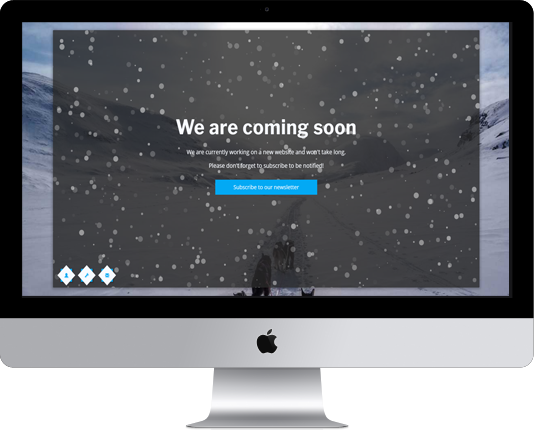
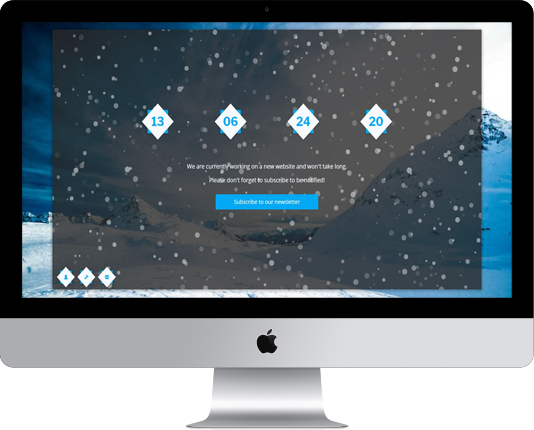
added photo

diff --git a/mainpage.html b/mainpage.html
@@ -32,21 +32,39 @@
 </head>
 
 <body>
-	<div class="wrapper">
+
 		<header class="header">
 
 			<div class="header__container"></div> 
-				<div class="header__content">
-					<div class="container">
-						<h1>Softly 1.0 </h1>                
-                   		<h2>Coming Soon Template</h2>
-                    	<a class="btn btn-main btn-mainpage" id="view-demo" href="#">View demo</a>
-                    	<a class="btn btn-main btn-mainpage" href="#" target="_blank">Want to buy</a>
+                <div class="header__content">              
+                    <div class="container">
+                    <h1>Softly 1.0 </h1>                
+                        <h2>Coming Soon Template</h2>
+                        <a class="btn btn-main btn-mainpage" id="view-demo" href="#">View demo</a>
+                        <a class="btn btn-main btn-mainpage" href="#" target="_blank">Want to buy</a>
 					</div>
+
 				</div>
 			</div>
 		
 		</header>
+
+    <div class=" wrapper">
+
+
+      
+
+        <header id="home" class="header ">
+
+            <div class="page-header-00">
+              <div class="container all-light">
+
+                </div>
+              </div>
+            </div>
+
+        </header>
+
 
 		<div id="content" class="container">
 
@@ -59,7 +77,7 @@
                     <div class="row">
                         <div class="col-md-6">
                             <a href="index.html" class="thumbnail">
-                                <img src="images/withcounter/index.jpg" alt="Background Image">
+                                <img src="images/withcounter/index-image.png" alt="Background Image">
                                 <div class="caption text-center">
                                     <h4>Image Background</h4>
                                 </div>  
@@ -68,7 +86,7 @@
 
                         <div class="col-md-6">
                             <a href="index-video.html" class="thumbnail">
-                                <img src="images/withcounter/index-video.jpg" alt="Video Background">
+                                <img src="images/withcounter/index-video.png" alt="Video Background">
                                 <div class="caption text-center">
                                     <h4>Video Background</h4>
                                 </div>  
@@ -77,7 +95,7 @@
 
                         <div class="col-md-6">
                             <a href="index-slideshow.html" class="thumbnail">
-                                <img src="images/withcounter/index-slideshow.jpg" alt="Slideshow Background">
+                                <img src="images/withcounter/index-slideshow.png" alt="Slideshow Background">
                                 <div class="caption text-center">
                                     <h4>Slideshow Background</h4>
                                 </div>  
@@ -86,18 +104,18 @@
 
                         <div class="col-md-6">
                             <a href="index-kenburns.html" class="thumbnail">
-                                <img src="images/withcounter/index-kenburns.jpg" alt="Kenburned Background">
+                                <img src="images/withcounter/index-kenburns.png" alt="Kenburned Background">
                                 <div class="caption text-center">
                                     <h4>Kenburned Background</h4>
                                 </div>  
                             </a>
                         </div>
 						
-						<hr class="horizontal__line">
+						<!-- <hr class="horizontal__line"> -->
 
                         <div class="col-md-6">
                             <a href="index-snow.html" class="thumbnail">
-                                <img src="images/withcounter/index-snow.jpg" alt="Snow Background">
+                                <img src="images/withcounter/index-snow.png" alt="Snow Background">
                                 <div class="caption text-center">
                                     <h4>Snow Background</h4>
                                 </div>  
@@ -106,7 +124,7 @@
 
                         <div class="col-md-6">
                              <a href="index-particles.html" class="thumbnail">
-                                 <img src="images/withcounter/index-particle.jpg" alt="Particles Background">
+                                 <img src="images/withcounter/index-particle.png" alt="Particles Background">
                                 <div class="caption text-center">
                                     <h4>Particles Background</h4>
                                 </div>  
@@ -115,7 +133,7 @@
 
 						<div class="col-md-6">
                             <a href="index-ripples.html" class="thumbnail">
-                                <img src="images/withcounter/index-ripples.jpg" alt="Ripples Background">
+                                <img src="images/withcounter/index-ripples.png" alt="Ripples Background">
                                 <div class="caption text-center">
                                     <h4>Ripples Background</h4>
                                 </div>  
@@ -124,7 +142,7 @@
 
                         <div class="col-md-6">
                             <a href="#" class="thumbnail">
-                                <img src="images/withcounter/coming.jpg" alt="Coming Soon Later">
+                                <img src="images/withcounter/comming_soon.png" alt="Coming Soon Later">
                                 <div class="caption text-center">
                                     <h4>Coming soon later</h4>
                                 </div>  
@@ -138,7 +156,7 @@
                     <div class="row">
                         <div class="col-md-6">
                              <a href="index-without-timer.html" class="thumbnail">
-                                 <img src="images/withoutcounter/index.jpg" alt="Image Background">
+                                 <img src="images/withoutcounter/index-image.png" alt="Image Background">
                                 <div class="caption text-center">
                                     <h4>Image Background</h4>
                                 </div>  
@@ -146,7 +164,7 @@
                         </div>
                         <div class="col-md-6">
                              <a href="index-video-without-timer.html" class="thumbnail">
-                                 <img src="images/withoutcounter/index-video.jpg" alt="Video Background">
+                                 <img src="images/withoutcounter/index-video.png" alt="Video Background">
                                 <div class="caption text-center">
                                     <h4>Video Background</h4>
                                 </div>  
@@ -155,7 +173,7 @@
                         
                         <div class="col-md-6">
                              <a href="index-kenburns-without-timer.html" class="thumbnail">
-                                 <img src="images/withoutcounter/index-kenburns.jpg" alt="Kenburned Background">
+                                 <img src="images/withoutcounter/index-kenburns.png" alt="Kenburned Background">
                                 <div class="caption text-center">
                                     <h4>Kenburned Background</h4>
                                 </div>  
@@ -164,18 +182,18 @@
 
                         <div class="col-md-6">
                              <a href="index-slideshow-without-timer.html" class="thumbnail">
-                                 <img src="images/withoutcounter/index-slideshow.jpg" alt="Slideshow Background">
+                                 <img src="images/withoutcounter/index-slideshow.png" alt="Slideshow Background">
                                 <div class="caption text-center">
                                     <h4>Slideshow Background</h4>
                                 </div>  
                             </a>
                         </div>
 
-						<hr class="horizontal__line">
+						<!-- <hr class="horizontal__line"> -->
 
                         <div class="col-md-6">
                              <a href="index-kenburned-without-timer.html" class="thumbnail">
-                                 <img src="images/withoutcounter/index-snow.jpg" alt="Snow Background">
+                                 <img src="images/withoutcounter/index-snow.png" alt="Snow Background">
                                 <div class="caption text-center">
                                     <h4>Snow Background</h4>
                                 </div>  
@@ -186,7 +204,7 @@
 
                         <div class="col-md-6">
                              <a href="index-particles-without-timer.html" class="thumbnail">
-                                 <img src="images/withoutcounter/index-particles.jpg" alt="Particles Background">
+                                 <img src="images/withoutcounter/index-particles.png" alt="Particles Background">
                                 <div class="caption text-center">
                                     <h4>Particle Background</h4>
                                 </div>  
@@ -195,7 +213,7 @@
 
                         <div class="col-md-6">
                              <a href="index-ripples-without-timer.html" class="thumbnail">
-                                 <img src="images/withoutcounter/index-ripples.jpg" alt="Ripples Background">
+                                 <img src="images/withoutcounter/index-ripples.png" alt="Ripples Background">
                                 <div class="caption text-center">
                                     <h4>Ripples Background</h4>
                                 </div>  
@@ -204,7 +222,7 @@
 
                         <div class="col-md-6">
                             <a href="#" class="thumbnail">
-                                <img src="images/withcounter/coming.jpg" alt="Image Background with Polygon">
+                                <img src="images/withcounter/comming_soon.png" alt="Image Background with Polygon">
                                 <div class="caption text-center">
                                     <h4>Comming soon later</h4>
                                 </div>  

diff --git a/css/mainpage.css b/css/mainpage.css
@@ -137,3 +137,35 @@ footer {
     padding: 50px 0;
     background: #9ADCFB;
 }
+
+.header__content {
+  
+  background-image: url(../images/slideshow4.jpg);
+  background-position: 50% 50%;
+  background-attachment: fixed;
+  background-size: cover;
+  width: 100%;
+  height: 75vh;
+  display: flex;
+  flex-direction: column;
+  justify-content: center;
+  align-items: center;
+
+}
+
+
+.container > h1 {
+
+    font-size: 75px;
+    font-family: 'Libre Franklin', sans-serif;
+
+}
+
+.container h2 {
+
+    font-size: 75px;
+    font-family: 'Libre Franklin', sans-serif;
+
+
+}
+

diff --git a/sass/base/_base.scss b/sass/base/_base.scss
@@ -98,7 +98,3 @@ body {
         }
     }
 }
-
-
-
-
